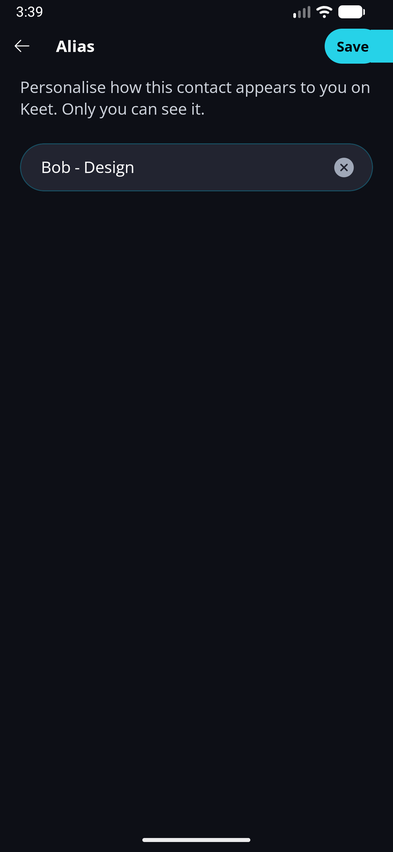
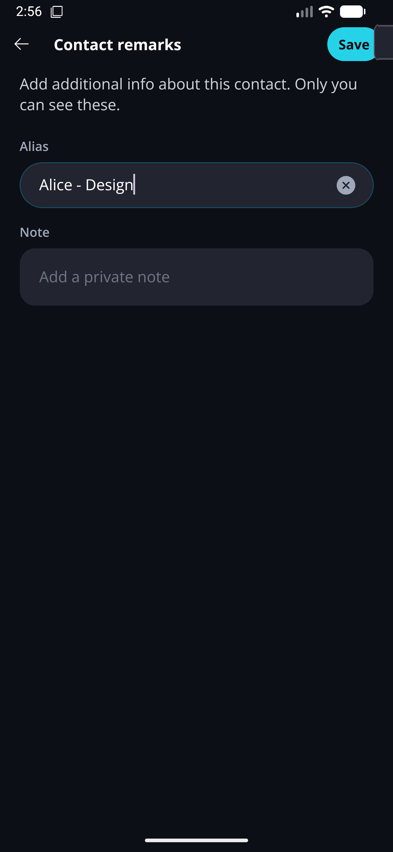
docs: verify 4.25 articles in the apps and fix stale screenshots
Replace the Contact Book alias menu screenshots that still showed
"Add alias", add Android and desktop screenshots for notes, multi-card
sharing, Moderator permissions, downgrade dialogs and the only-admin
notice, and correct the articles where testing differed from source
(downgrade confirmations per platform, card tap behaviour, Moderator
view, 280-character message wording).

diff --git a/src/lib/image-dimensions.generated.ts b/src/lib/image-dimensions.generated.ts
@@ -78,19 +78,19 @@ export const imageDimensions = {
   },
   "/images/file-sharing-and-messages/contact-book/alias/desktop/alias-field.png": {
     "width": 1224,
-    "height": 810
+    "height": 808
   },
   "/images/file-sharing-and-messages/contact-book/alias/desktop/chat-with-alias.png": {
     "width": 1224,
     "height": 810
   },
-  "/images/file-sharing-and-messages/contact-book/alias/desktop/contacts-menu-add-alias.png": {
+  "/images/file-sharing-and-messages/contact-book/alias/desktop/contacts-menu-add-remarks.png": {
     "width": 1224,
-    "height": 810
+    "height": 808
   },
   "/images/file-sharing-and-messages/contact-book/alias/desktop/profile-with-alias.png": {
     "width": 1224,
-    "height": 810
+    "height": 808
   },
   "/images/file-sharing-and-messages/contact-book/alias/mobile/alias-field.png": {
     "width": 393,
@@ -100,7 +100,7 @@ export const imageDimensions = {
     "width": 393,
     "height": 852
   },
-  "/images/file-sharing-and-messages/contact-book/alias/mobile/contact-options-add-alias.png": {
+  "/images/file-sharing-and-messages/contact-book/alias/mobile/contact-options-add-remarks.png": {
     "width": 393,
     "height": 852
   },
@@ -516,15 +516,23 @@ export const imageDimensions = {
     "width": 393,
     "height": 852
   },
-  "/images/file-sharing-and-messages/private-notes/mobile/add-remarks-sheet.png": {
-    "width": 393,
-    "height": 852
-  },
   "/images/file-sharing-and-messages/private-notes/mobile/contact-options-add-remarks.png": {
     "width": 393,
     "height": 852
   },
+  "/images/file-sharing-and-messages/private-notes/mobile/contact-remarks.png": {
+    "width": 393,
+    "height": 852
+  },
   "/images/file-sharing-and-messages/private-notes/mobile/contacts-list-with-note.png": {
+    "width": 393,
+    "height": 852
+  },
+  "/images/file-sharing-and-messages/private-notes/mobile/note-over-limit.png": {
+    "width": 393,
+    "height": 852
+  },
+  "/images/file-sharing-and-messages/private-notes/mobile/profile-note-row.png": {
     "width": 393,
     "height": 852
   },
@@ -549,6 +557,10 @@ export const imageDimensions = {
     "height": 808
   },
   "/images/file-sharing-and-messages/share-contacts/desktop/contact-card-sent.png": {
+    "width": 1224,
+    "height": 808
+  },
+  "/images/file-sharing-and-messages/share-contacts/desktop/contact-cards-multiple.png": {
     "width": 1224,
     "height": 808
   },
@@ -896,15 +908,11 @@ export const imageDimensions = {
     "width": 576,
     "height": 590
   },
-  "/images/keet-groups/group-member-roles/change-role-as-admin-moderator-2.png": {
-    "width": 411,
-    "height": 823
-  },
   "/images/keet-groups/group-member-roles/desktop/admin-promoted-notification.png": {
     "width": 1224,
     "height": 808
   },
-  "/images/keet-groups/group-member-roles/desktop/downgrade-to-peer-modal.png": {
+  "/images/keet-groups/group-member-roles/desktop/downgrade-to-moderator-modal.png": {
     "width": 1224,
     "height": 808
   },
@@ -912,7 +920,15 @@ export const imageDimensions = {
     "width": 1224,
     "height": 808
   },
+  "/images/keet-groups/group-member-roles/desktop/only-admin-notice.png": {
+    "width": 1224,
+    "height": 808
+  },
   "/images/keet-groups/group-member-roles/desktop/permissions-make-admin.png": {
+    "width": 1224,
+    "height": 808
+  },
+  "/images/keet-groups/group-member-roles/desktop/permissions-moderator-view.png": {
     "width": 1224,
     "height": 808
   },
@@ -928,7 +944,19 @@ export const imageDimensions = {
     "width": 1224,
     "height": 808
   },
+  "/images/keet-groups/group-member-roles/mobile/downgrade-to-peer-sheet.png": {
+    "width": 393,
+    "height": 852
+  },
+  "/images/keet-groups/group-member-roles/mobile/moderator-permissions.png": {
+    "width": 393,
+    "height": 852
+  },
   "/images/keet-groups/group-member-roles/mobile/permissions-make-admin.png": {
+    "width": 393,
+    "height": 852
+  },
+  "/images/keet-groups/group-member-roles/mobile/promoted-notification.png": {
     "width": 393,
     "height": 852
   },
